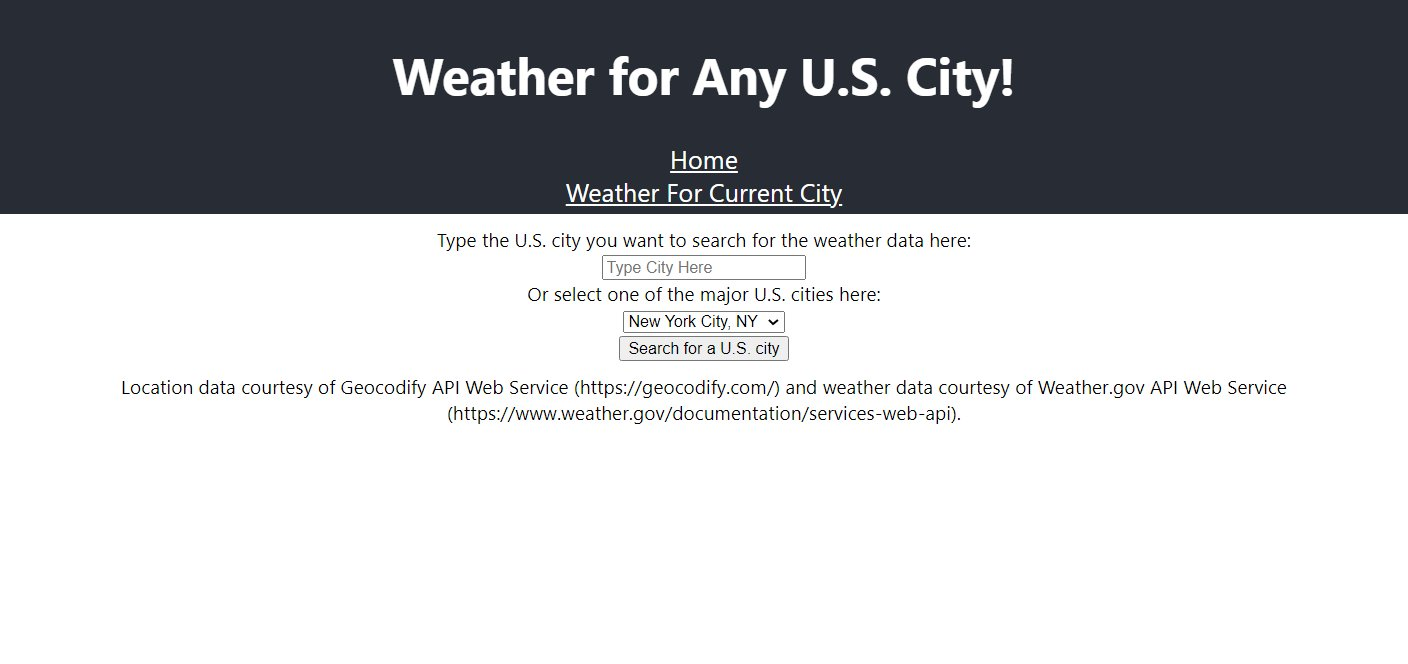
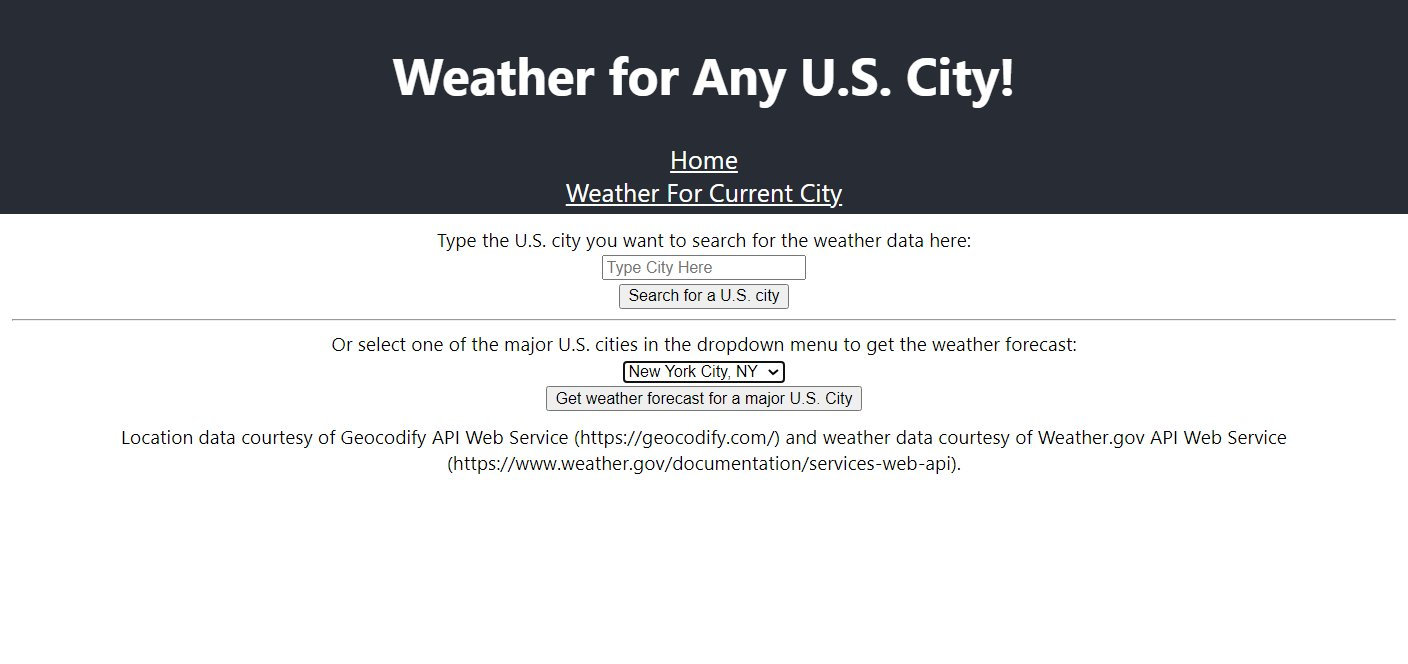
updated dropdown searching and site-example-images

Changed region(s): [[0.0938, 0.4217, 0.9062, 0.7229]]

diff --git a/src/components/Form.js b/src/components/Form.js
@@ -1,25 +1,50 @@
 import React, { useEffect, useState } from "react";
 import Location from "./Location";
+import axios from "axios";
+import { useNavigate } from "react-router-dom";
 
 export default function Form(props) {
     let { search, setSearch } = props
+    let navigate = useNavigate()
+
     const onChange = (evt) => {
         setSearch({ ...search, [evt.target.name]: evt.target.value })
     }
-    const onSubmit = (evt) => {
+    const onSubmitSearch = (evt) => {
         evt.preventDefault()
         setSearch({ ...search, city: search.searchTerm, searchTerm: "" })
     }
+
+    const onSubmitDirectLink = (evt) => {
+        evt.preventDefault()
+        axios.get(`https://api.geocodify.com/v2/geocode?api_key=8ead09d05bca83da6d21f53fd892789458dfd88f&q=${search.searchTerm}`)
+        .then(res => {
+            let data = res.data.response.features[0]
+            let long = data.geometry.coordinates[0]
+            let lat = data.geometry.coordinates[1]
+            let displayLoc = data.properties.label
+            setSearch({ ...search, city: search.searchTerm, long, lat, displayLoc, searchTerm: ""})
+            
+            navigate("/weather-app/weather")
+        })
+        .catch(err => console.error(err))
+    }
+
     return (
         <div className="content">
-            <form onSubmit={onSubmit}>
+            <form onSubmit={onSubmitSearch}>
                 <label>
                     Type the U.S. city you want to search for the weather data here: <br></br>
                     <input type="text" name="searchTerm" placeholder='Type City Here' onChange={onChange} />
                 </label>
                 <br></br>
+                 <button>Search for a U.S. city</button>
+            </form>
+            {search.city && <Location search={search} setSearch={setSearch} onChange={onChange} />}
+            <hr></hr>
+            <form onSubmit={onSubmitDirectLink}>
                 <label>
-                    Or select one of the major U.S. cities here: <br></br>
+                    Or select one of the major U.S. cities in the dropdown menu to get the weather forecast: <br></br>
                     <select name="searchTerm" onChange={onChange}>
                         <option value="">Select City Here</option>
                         <option value="New York City">New York City, NY</option>
@@ -35,9 +60,8 @@ export default function Form(props) {
                         <option value="Washington, D.C.">Washington, D.C.</option>
                     </select>
                 </label><br></br>
-                <button>Search for a U.S. city</button>
+                <button>Get weather forecast for a major U.S. City</button>
             </form>
-            {search.city && <Location search={search} setSearch={setSearch} />}
         </div>
 
     )

diff --git a/src/App.js b/src/App.js
@@ -6,13 +6,13 @@ import Weather from './components/Weather';
 import { Router, Routes, Route, Link } from "react-router-dom"
 
 function App() {
-  const [search, setSearch] = useState({ city: "", searchTerm: "", display: "", lat: null, long: null })
+  const [search, setSearch] = useState({ city: "", searchTerm: "", displayLoc: "", lat: null, long: null })
 
 
   return (
     <div className="App">
       <header className="App-header">
-        <h1>Weather for {search.display ? search.display : "Any U.S. City!"}</h1>
+        <h1>Weather for {search.displayLoc ? search.displayLoc : "Any U.S. City!"}</h1>
         <Link style={{ color: "white" }} id="home" to="/weather-app">Home</Link>
         <Link style={{ color: "white" }} id="weather" to="/weather-app/weather">Weather For Current City</Link>
       </header>

diff --git a/src/components/Location.js b/src/components/Location.js
@@ -8,14 +8,14 @@ export default function Location(props) {
     useEffect(() => {
         axios.get(`https://api.geocodify.com/v2/geocode?api_key=8ead09d05bca83da6d21f53fd892789458dfd88f&q=${search.city}`)
             .then(res => {
-                console.log(res.data.response)
                 setResults(res.data.response.features)
             })
-            .catch(err => console.log(err))
+            .catch(err => console.error(err))
     }, [search.city])
     const onClick = (long, lat, displayLoc) => {
-        setSearch({ ...search, long: long, lat: lat, display: displayLoc })
+        setSearch({ ...search, long, lat, displayLoc })
     }
+
 
     return (
         <div className="content">

diff --git a/src/components/Weather.js b/src/components/Weather.js
@@ -12,7 +12,7 @@ export default function Weather(props) {
                         setForecast(res.data.properties.periods)
                     })
             })
-            .catch(err => console.log(err))
+            .catch(err => console.error(err))
     }, [])
 
     return (
